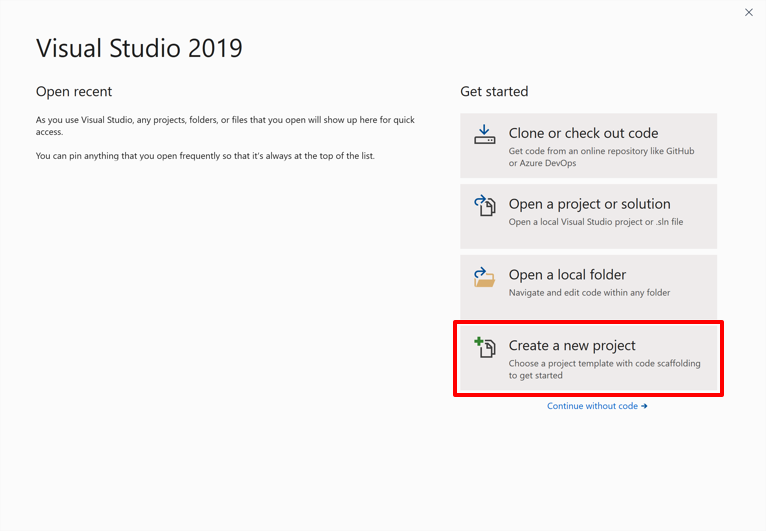
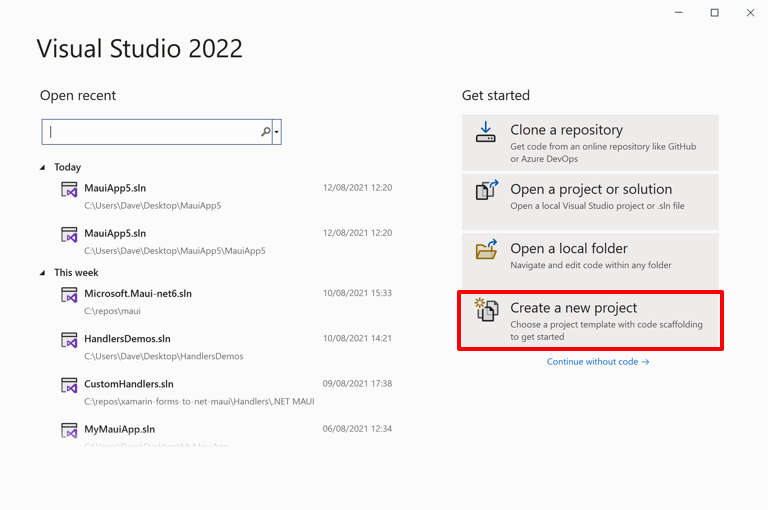
Use the VS templates.

diff --git a/docs/get-started/first-app.md b/docs/get-started/first-app.md
@@ -1,5 +1,5 @@
 ---
-title: "Build your first .NET MAUI app in Visual Studio"
+title: "Build your first .NET MAUI app"
 description: "How to create and run your first .NET MAUI app."
 zone_pivot_groups: preview-platforms
 ms.date: 07/15/2021
@@ -24,17 +24,19 @@ In this tutorial, you'll learn how to create and run your first .NET Multi-platf
 
 In this tutorial, you'll create your first .NET MAUI app in Visual Studio 2022, and run it on an Android emulator:
 
-1. Open a command prompt and create a new project by running the command:
+1. Launch Visual Studio 2022, and in the start window click **Create a new project** to create a new project:
 
-    ```dotnetcli
-    dotnet new maui -n HelloMaui
-    ```
+    :::image type="content" source="first-app-images/new-solution.png" alt-text="New solution.":::
 
-1. Launch the latest preview of Visual Studio 2022, and in the start window click **Open a project or solution** to browse for your solution:
+1. In the **Create a new project** window, select **MAUI** in the **Project type** drop-down, select the **.NET MAUI App** template, and click the **Next** button:
 
-    :::image type="content" source="first-app-images/start-open.png" alt-text="Open solution.":::
+    :::image type="content" source="first-app-images/new-project.png" alt-text="Choose a template.":::
 
-1. Wait for the project to load, and its dependencies to be restored:
+1. In the **Configure your new project** window, name your project, choose a suitable location for it, and click the **Create** button:
+
+    :::image type="content" source="first-app-images/configure-project.png" alt-text="Configure the project.":::
+
+1. Wait for the project to be created, and its dependencies to be restored:
 
     :::image type="content" source="first-app-images/restored-dependencies.png" alt-text="Restored dependencies.":::
 
